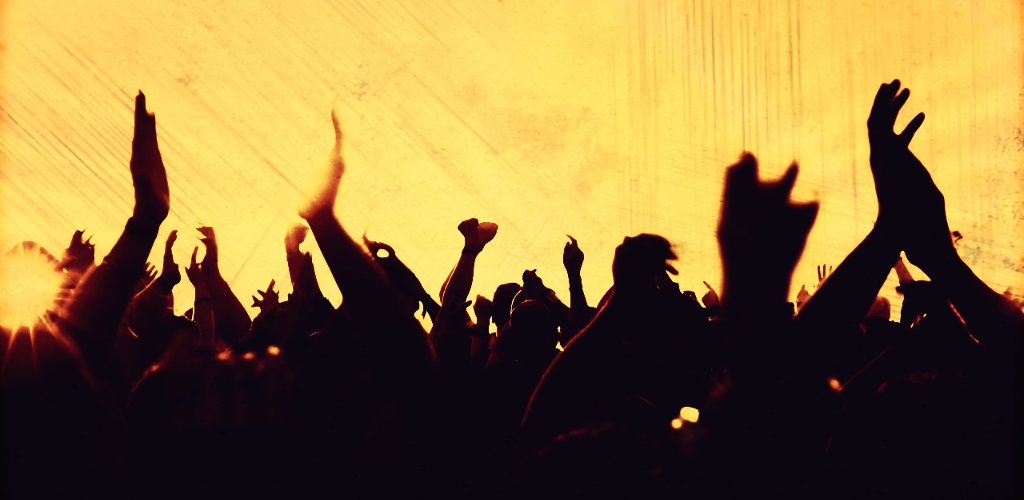
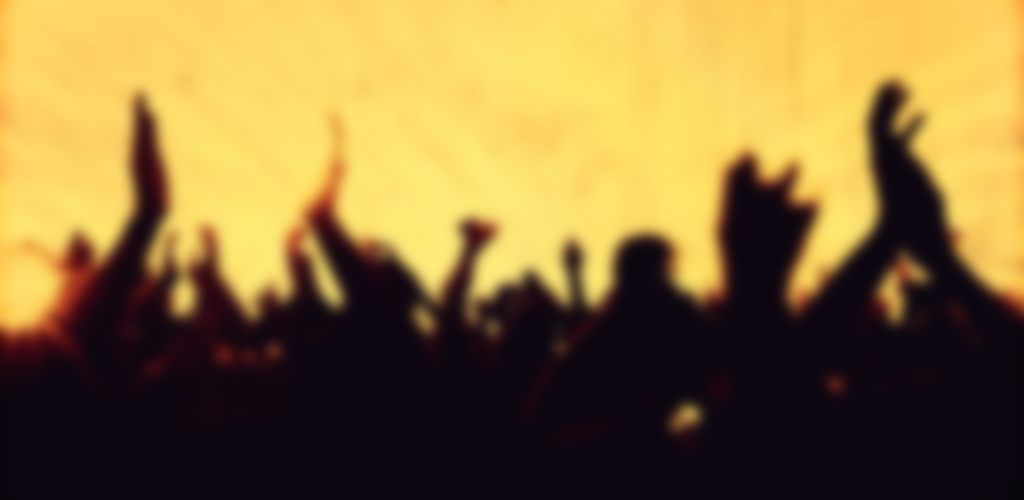
Cambié el fondo

diff --git a/www/css/app.css b/www/css/app.css
@@ -8,7 +8,7 @@ html{
 
 body {
   font-size: 16px;
-  background-image: url("../img/background.jpg");
+  background-image: url("../img/background.png");
   background-position: center top;
   background-size: Auto 100%;
   background-color: black;
